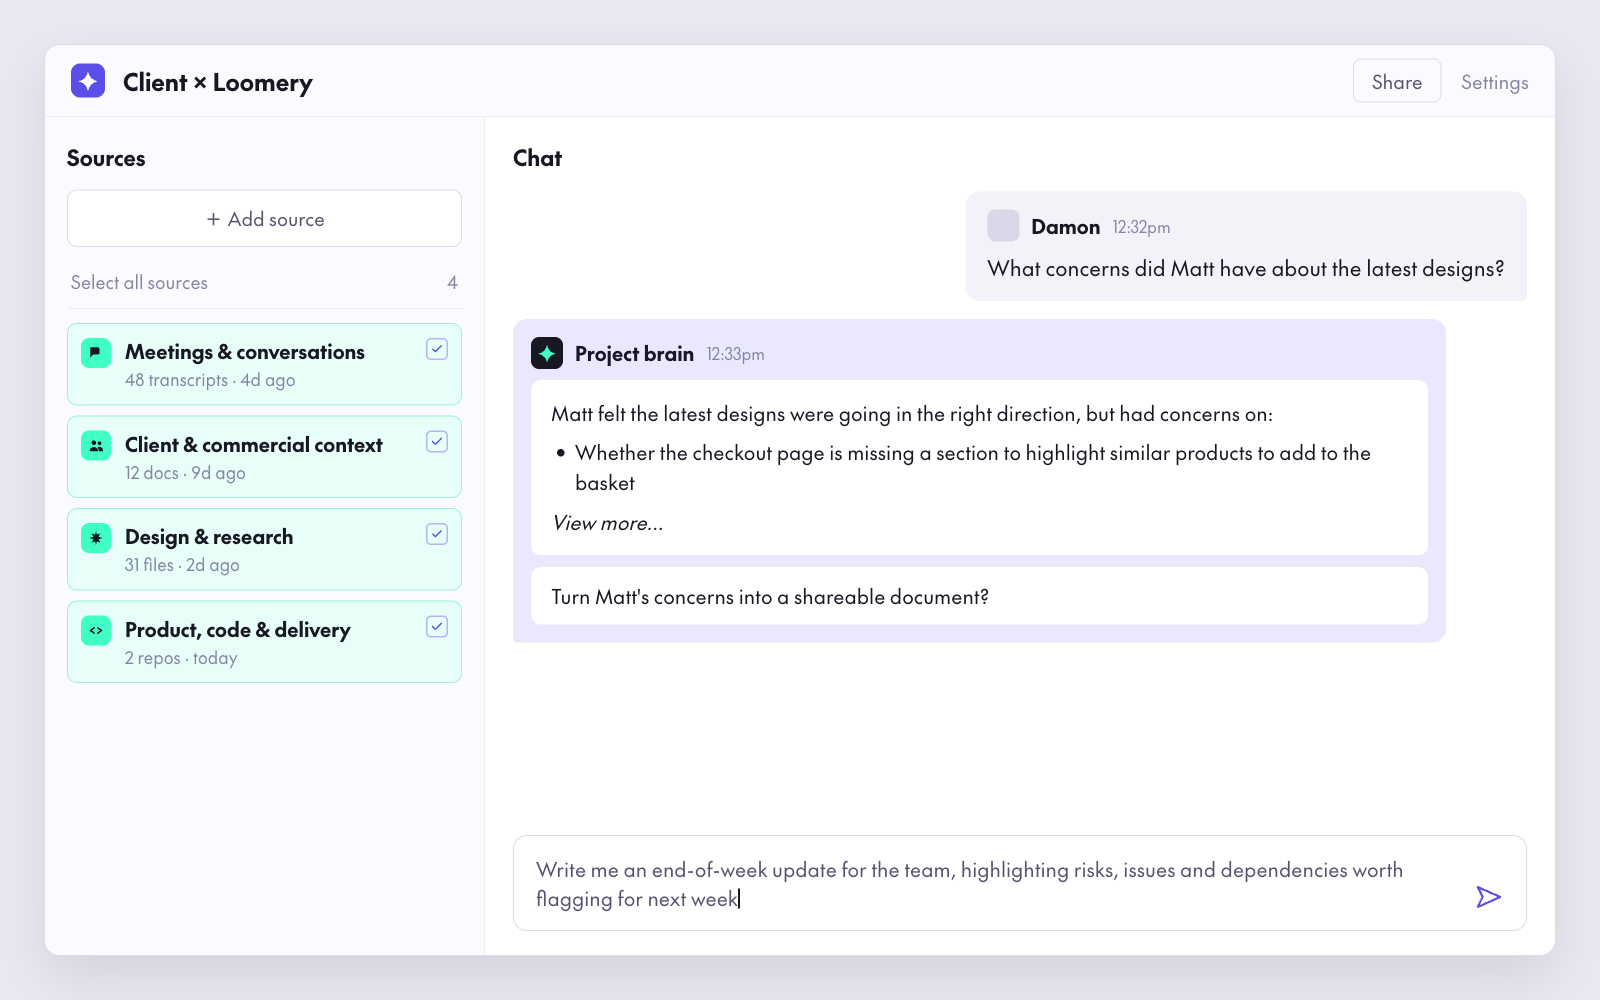
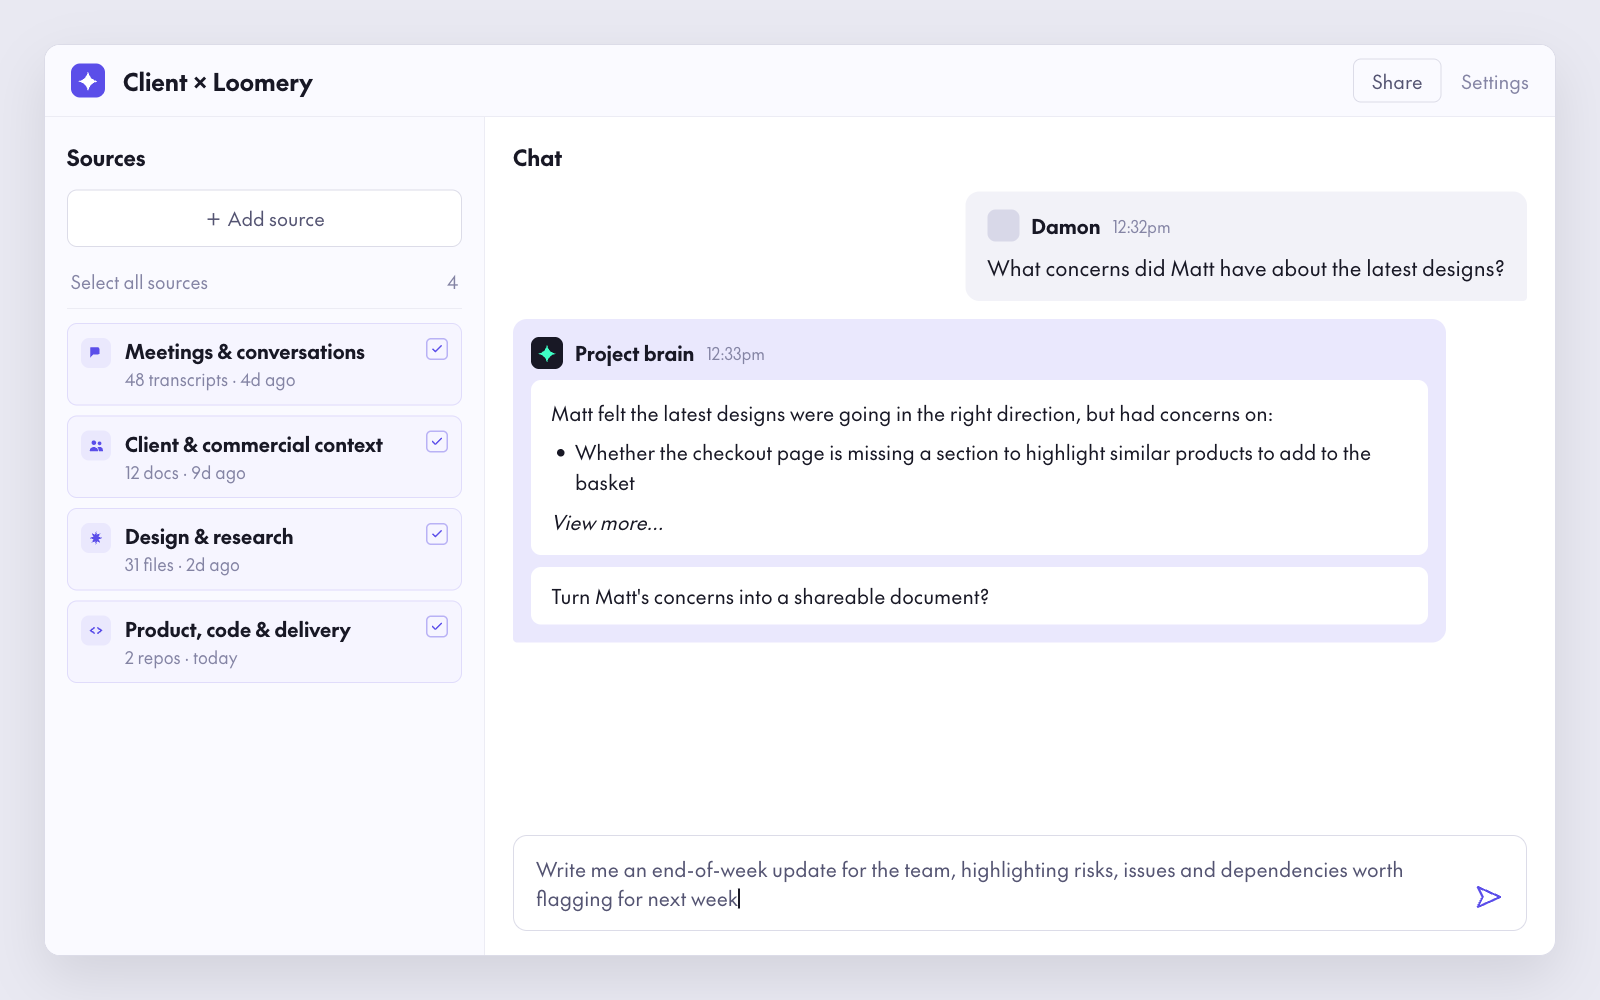
Put the Warp visuals on the same palette as Heddle and Bobbin
Audited the three: Heddle uses no mint at all, and Bobbin uses it once,
for the bot avatar sparkle. Warp was using mint for its whole source
list - the row fills, their borders and the four icon chips - which made
it the odd one out.

The source list now uses the indigo pair Heddle already uses for its own
active states: #f6f5ff rows with a soft #e0dcfb edge, and #eae8fd icon
chips with a #5b4ee9 glyph. Nothing new was introduced; every value
already existed in Heddle.

The mint bot-avatar sparkle stays in both Warp and Bobbin - that one is
genuinely shared, and it marks the agent rather than the furniture.

Applied to the still and the session GIF, both re-rendered.

diff --git a/mockups/warp.html b/mockups/warp.html
@@ -23,9 +23,9 @@ body{padding:44px;background:#e9e9f2}
 .all{display:flex;align-items:center;justify-content:space-between;font-size:18px;
   color:#8484a4;padding:0 4px 14px;border-bottom:1px solid #ececf4;margin-bottom:14px}
 .grp{display:flex;align-items:flex-start;gap:14px;padding:15px 14px;border-radius:10px;margin-bottom:10px}
-.grp.on{background:#e7fff8;box-shadow:inset 0 0 0 1px #9df2d6}
-.ic{width:30px;height:30px;border-radius:8px;background:#3fffc5;display:grid;place-items:center;flex:none}
-.ic svg{width:17px;height:17px;fill:#181825}
+.grp.on{background:#f6f5ff;box-shadow:inset 0 0 0 1px #e0dcfb}
+.ic{width:30px;height:30px;border-radius:8px;background:#eae8fd;display:grid;place-items:center;flex:none}
+.ic svg{width:17px;height:17px;fill:#5b4ee9}
 .grp .tx{min-width:0;display:flex;flex-direction:column}
 .grp .nm{display:block;font-size:20px;font-weight:600;color:#181825;line-height:1.3}
 .grp .ct{display:block;font-size:17px;color:#8484a4;margin-top:3px}

diff --git a/mockups/gen_session.py b/mockups/gen_session.py
@@ -112,9 +112,9 @@ body{width:%(W)spx;background:#e9e9f2;font-family:"The Future",Jost,system-ui,sa
 .src{border-right:1px solid #ececf4;padding:16px 14px;background:#fafaff}
 .src h3{font-size:15px;font-weight:600;color:#181825;margin-bottom:12px}
 .grp{display:flex;align-items:center;gap:10px;padding:9px 10px;border-radius:8px;margin-bottom:7px;
-  background:#e7fff8;box-shadow:inset 0 0 0 1px #9df2d6}
-.ic{width:22px;height:22px;border-radius:6px;background:#3fffc5;display:grid;place-items:center;flex:none}
-.ic svg{width:13px;height:13px;fill:#181825}
+  background:#f6f5ff;box-shadow:inset 0 0 0 1px #e0dcfb}
+.ic{width:22px;height:22px;border-radius:6px;background:#eae8fd;display:grid;place-items:center;flex:none}
+.ic svg{width:13px;height:13px;fill:#5b4ee9}
 .tx{min-width:0;display:flex;flex-direction:column}
 .nm{font-size:13.5px;font-weight:600;color:#181825;line-height:1.25}
 .ct{font-size:12px;color:#8484a4}
